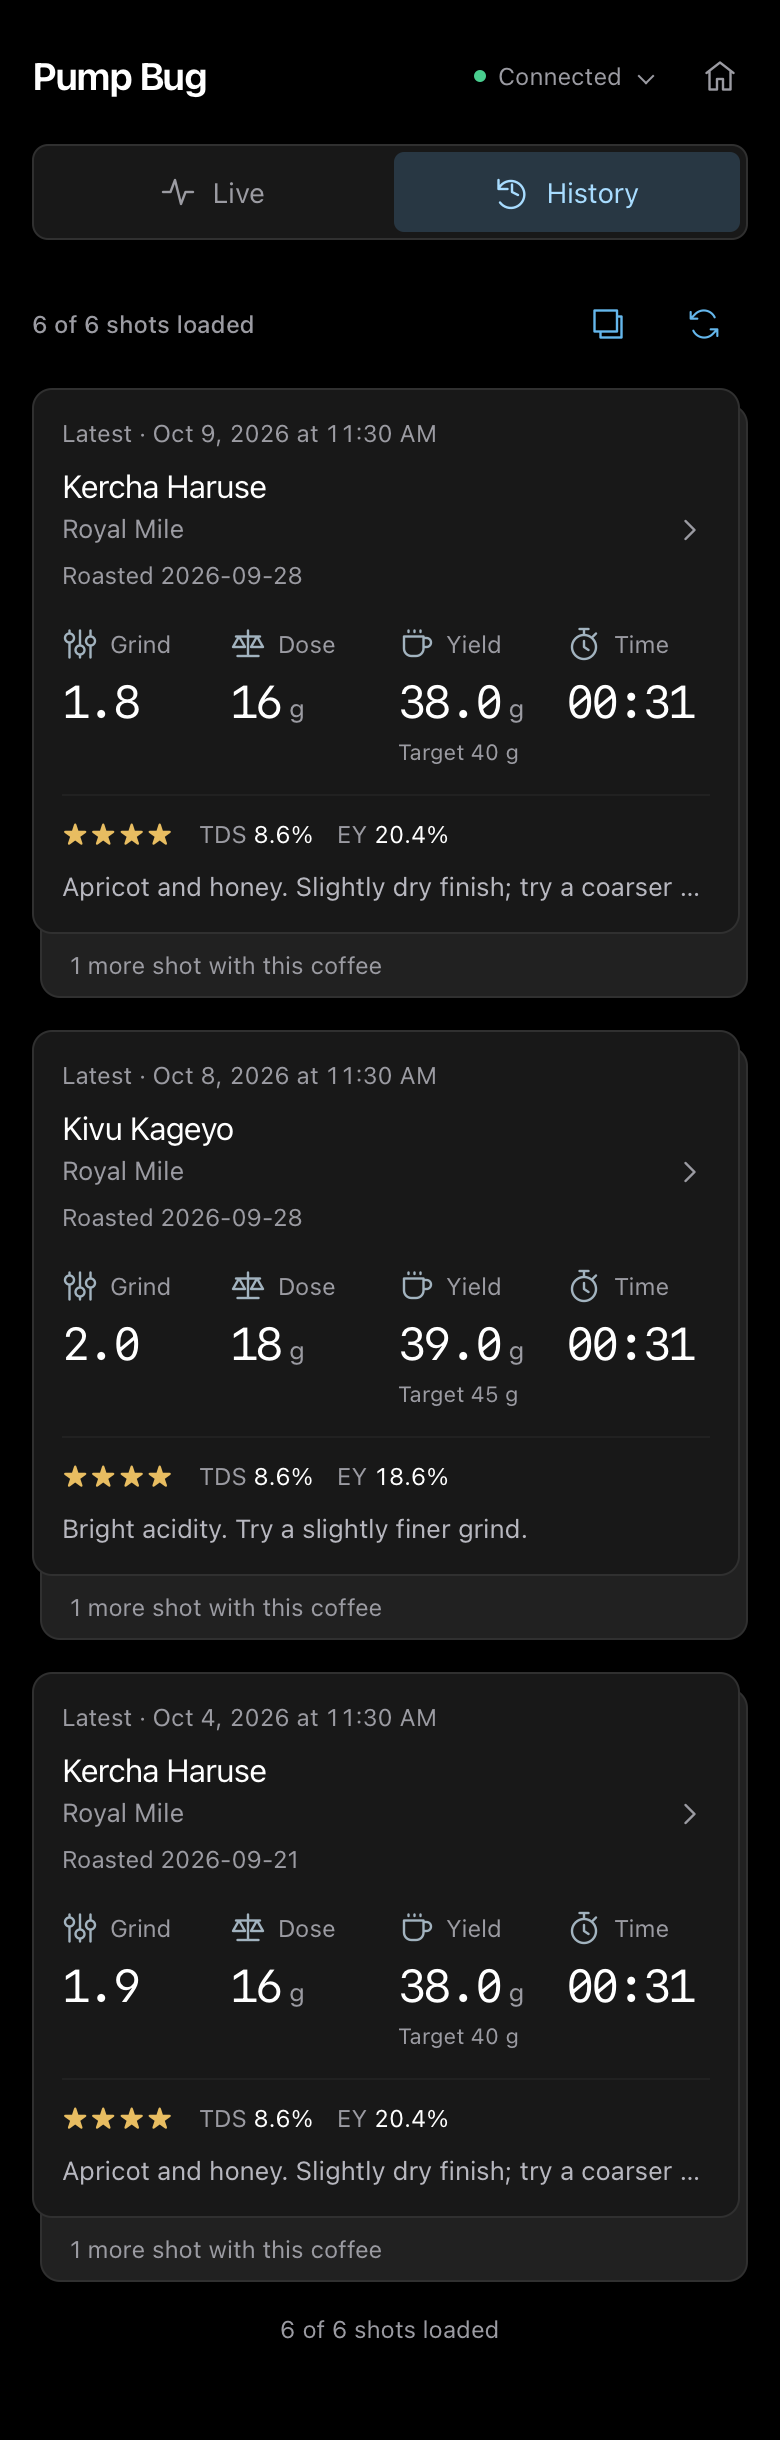
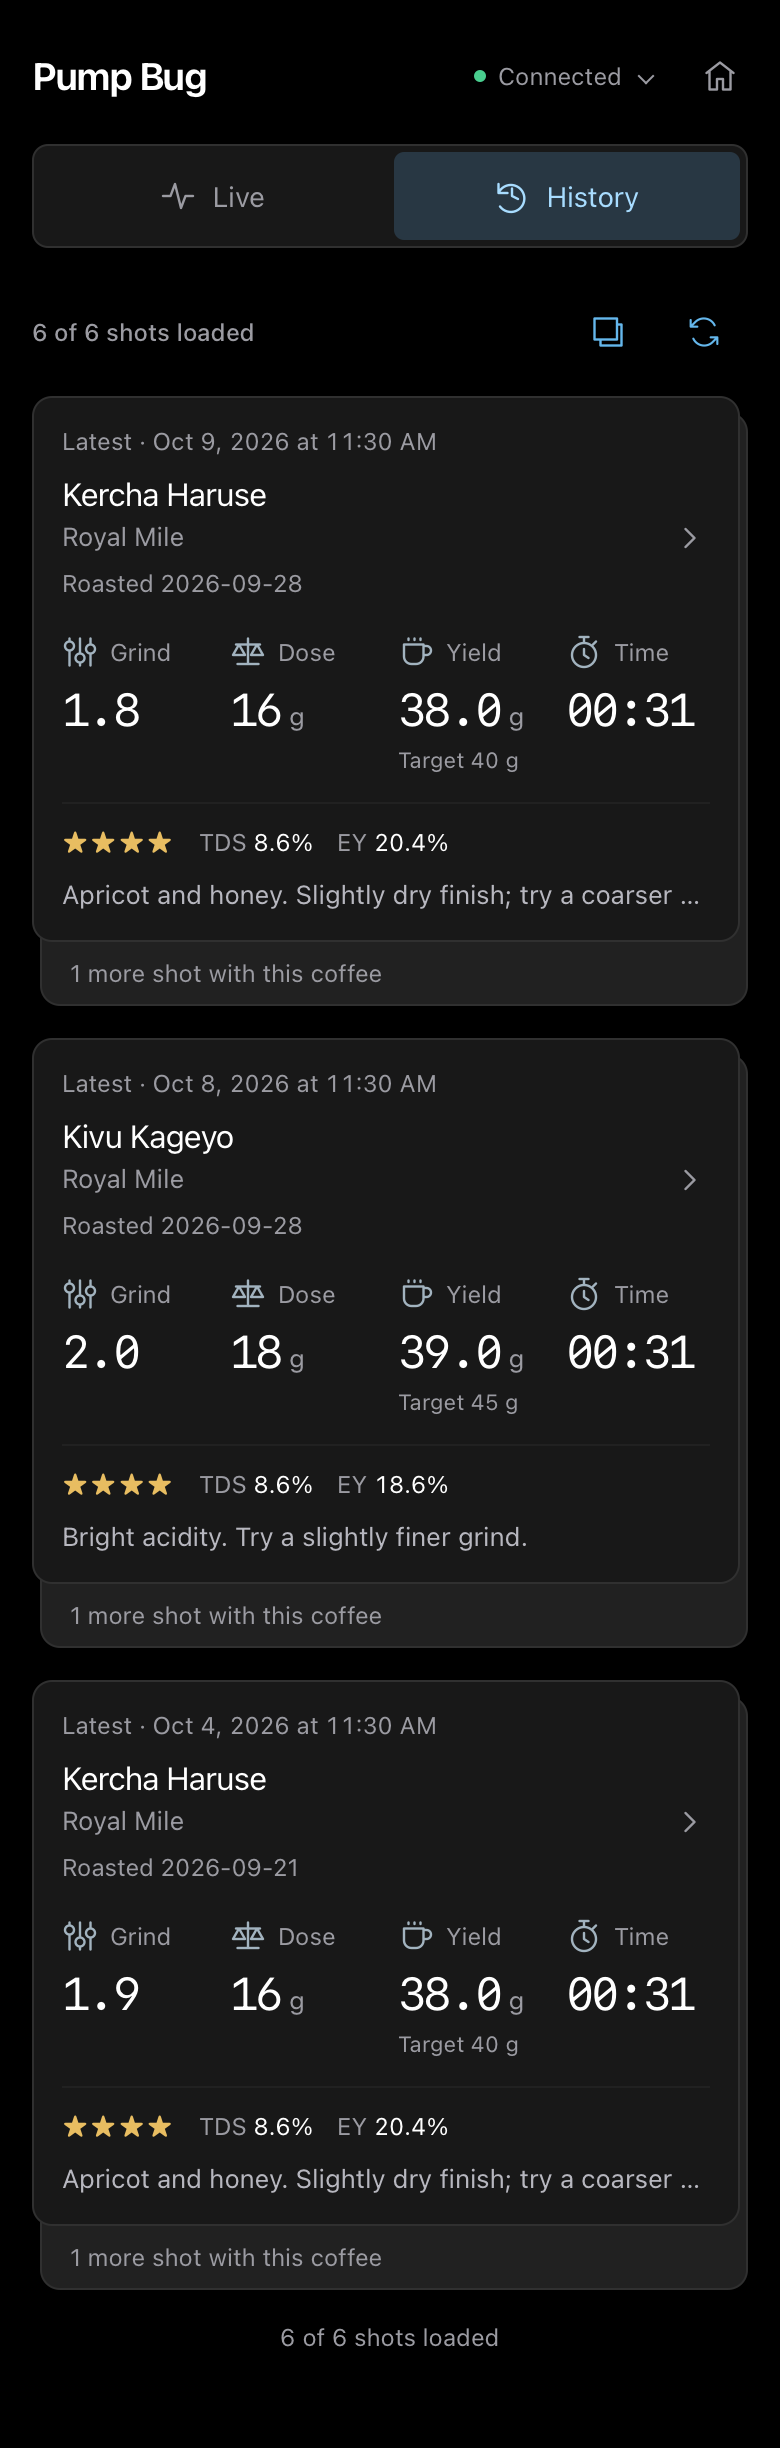
Give the redesigned web pages a consistent visual foundation
Share the Home control, panel styling, selected-tab colours and focus
rings so the dashboard, Wi-Fi page and Logs stay visually aligned.

Keep focus rings inside tightly spaced controls, match tab touch targets,
and refresh the affected guide screenshots.

diff --git a/web-src/app/extraction/styles.css b/web-src/app/extraction/styles.css
@@ -19,10 +19,6 @@ h2, .preparation-subheading {
 }
 section { margin: 0 0 24px; }
 .dim { color: var(--dim); }
-.page-head .home {
-  display: flex; align-items: center; justify-content: center;
-  width: 44px; height: 44px; flex-shrink: 0; margin: 0 -8px 0 0;
-}
 .connection-status {
   position: relative; color: var(--dim); font-size: 12px;
 }
@@ -194,12 +190,12 @@ table.samples td.k { text-align: left; color: var(--dim); }
   background: var(--surface);
 }
 .tabs button {
-  flex: 1; min-height: 40px; padding: 8px 12px; border: 0;
+  flex: 1; min-height: 44px; padding: 8px 12px; border: 0;
   display: flex; align-items: center; justify-content: center; gap: 8px;
   border-radius: 5px; background: none; color: var(--dim);
   font-family: inherit; font-size: 14px; cursor: pointer;
 }
-.tabs button.active { background: #283743; color: #a8dcff; }
+.tabs button.active { background: var(--selected-bg); color: var(--selected-fg); }
 .backlink {
   background: none; border: none; color: var(--accent);
   font-family: inherit; font-size: 0.875rem;
@@ -315,7 +311,7 @@ ul.shotlist li.recently-edited {
 .history-view-menu > summary::-webkit-details-marker { display: none; }
 .history-view-menu[open] > summary { background: var(--surface); }
 .history-view-menu > summary:focus-visible {
-  outline: 2px solid var(--accent); outline-offset: -2px;
+  outline-offset: -2px;
 }
 .history-view-options {
   position: absolute; z-index: 5; top: 46px; right: 0; width: 180px;
@@ -328,6 +324,7 @@ ul.shotlist li.recently-edited {
   background: none; color: var(--fg); font: inherit; font-size: 13px; text-align: left;
 }
 .history-view-options button[aria-pressed="true"] { color: var(--accent); }
+.history-view-options button:focus-visible { outline-offset: -2px; }
 .history-view-check { margin-left: auto; }
 .shotlist > li.history-stack {
   position: relative; padding: 0 4px 32px 0; margin-bottom: 16px;
@@ -346,7 +343,7 @@ ul.shotlist li.recently-edited {
   font: inherit; font-size: 12px; text-align: left; cursor: pointer;
 }
 .history-stack-more:focus-visible {
-  color: var(--accent); outline: 2px solid var(--accent); outline-offset: 2px;
+  color: var(--accent); outline-offset: 2px;
 }
 .history-stack-head {
   display: flex; align-items: center; justify-content: space-between;
@@ -405,7 +402,7 @@ button.shot-details-link {
 button.shot-details-link:hover { background: #ffffff0a; color: var(--accent); }
 button.shot-details-link:focus-visible, button.shot-open-link:focus-visible,
 .modal-close:focus-visible {
-  outline: 2px solid var(--accent); outline-offset: 2px;
+  outline-offset: 2px;
 }
 .shot-metrics {
   display: grid; grid-template-columns: repeat(4, minmax(0, 1fr));
@@ -554,6 +551,7 @@ button:disabled, button[aria-disabled="true"] { opacity: 0.5; cursor: default; }
   min-width: 44px; min-height: 44px; padding: 2px; cursor: pointer;
 }
 .rating button.on { color: var(--warn); }
+.rating button:focus-visible { outline-offset: -2px; }
 .rating .clear-rating { font: inherit; font-size: 0.8125rem; margin-left: auto; }
 .tag-editor {
   border: 1px solid var(--border); border-radius: 4px;
@@ -641,7 +639,7 @@ form > .editor-error:focus {
 .coffee-previous > summary { list-style: none; cursor: pointer; }
 .coffee-previous > summary::-webkit-details-marker { display: none; }
 .coffee-previous > summary:focus-visible {
-  outline: 2px solid var(--accent); outline-offset: 5px; border-radius: 3px;
+  outline-offset: 5px; border-radius: 3px;
 }
 .coffee-previous-heading {
   display: flex; align-items: center; justify-content: space-between; gap: 8px;

diff --git a/web-src/logs/styles.css b/web-src/logs/styles.css
@@ -7,20 +7,12 @@ body { max-width: 720px; }
 a { color: var(--accent); }
 .muted { color: var(--dim); font-size: 0.8125rem; line-height: 1.5; }
 .empty { padding: 16px 0; margin: 0; }
-.log-panel {
-  padding: 16px; background: var(--surface);
-  border: 1px solid var(--border); border-radius: 10px;
-}
 .sr-only {
   position: absolute; width: 1px; height: 1px; padding: 0; margin: -1px;
   overflow: hidden; clip: rect(0, 0, 0, 0); white-space: nowrap; border: 0;
 }
 
 .page-head { margin-bottom: 20px; }
-.page-head .home {
-  display: flex; align-items: center; justify-content: center;
-  width: 44px; height: 44px; flex-shrink: 0; margin: 0 -8px 0 0;
-}
 #copy-log {
   min-height: 44px; padding: 8px 12px; font: inherit; font-size: 0.8125rem;
   background: transparent; color: var(--accent);
@@ -28,9 +20,6 @@ a { color: var(--accent); }
 }
 #copy-log:hover:not(:disabled) { text-decoration: underline; }
 #copy-log:disabled { color: var(--dim); cursor: default; opacity: 0.65; }
-button:focus-visible, a:focus-visible, .table-scroll:focus-visible {
-  outline: 2px solid var(--accent); outline-offset: 3px;
-}
 
 /* Tab bar */
 .tabs {
@@ -45,7 +34,7 @@ button:focus-visible, a:focus-visible, .table-scroll:focus-visible {
   border: 0; border-radius: 6px; cursor: pointer; line-height: 1.35;
 }
 .tab:hover { color: var(--fg); }
-.tab.active { color: #a8dcff; background: #283743; }
+.tab.active { color: var(--selected-fg); background: var(--selected-bg); }
 
 /* Section bar: row count + clear */
 .bar {
@@ -61,6 +50,7 @@ button:focus-visible, a:focus-visible, .table-scroll:focus-visible {
 
 /* Log table */
 .table-scroll { overflow-x: auto; overscroll-behavior-x: contain; }
+.table-scroll:focus-visible { outline: 2px solid var(--accent); outline-offset: 3px; }
 table { width: 100%; border-collapse: collapse; font-size: 0.75rem; }
 th {
   text-align: left; font-weight: normal; color: var(--dim);

diff --git a/web-src/shared/ui.css b/web-src/shared/ui.css
@@ -1,7 +1,7 @@
 /* SPDX-FileCopyrightText: 2026 ludable */
 /* SPDX-License-Identifier: AGPL-3.0-only */
 
-/* Shared interface palette, typography, icons and page headers. Import this
+/* Shared interface palette, typography and component styles. Import this
    before page-specific rules; it includes the defaults from base.css. */
 @import "./base.css";
 
@@ -12,6 +12,8 @@
   --ui-font: -apple-system, BlinkMacSystemFont, "Segoe UI", sans-serif;
   --measurement-font: ui-monospace, "SF Mono", Menlo, Consolas, monospace;
   --primary-fill: #176b99;
+  --selected-bg: #283743;
+  --selected-fg: #a8dcff;
 }
 html, body { font-family: var(--ui-font); }
 body { padding-top: 16px; }
@@ -25,4 +27,18 @@ body { padding-top: 16px; }
 .page-head h1 {
   font-size: 19px; font-weight: 650; color: var(--fg);
   margin: 0; margin-right: auto; letter-spacing: -0.03em;
+}
+.page-head .home {
+  display: flex; align-items: center; justify-content: center;
+  width: 44px; height: 44px; flex-shrink: 0; margin: 0 -8px 0 0;
+  color: var(--dim); text-decoration: none;
+}
+.page-head .home:hover { color: var(--accent); }
+button:focus-visible, a:focus-visible, summary:focus-visible {
+  outline: 2px solid var(--accent); outline-offset: 3px;
+}
+.tabs button:focus-visible { outline-offset: -2px; }
+.panel {
+  padding: 16px; background: var(--surface);
+  border: 1px solid var(--border); border-radius: 10px;
 }

diff --git a/web-src/config/styles.css b/web-src/config/styles.css
@@ -5,10 +5,6 @@
 
 a { color: var(--accent); }
 .page-head { margin-bottom: 16px; }
-.page-head .home {
-  display: flex; align-items: center; justify-content: center;
-  width: 44px; height: 44px; flex-shrink: 0; margin: 0 -8px 0 0;
-}
 .device-name { color: var(--dim); font-size: 0.75rem; margin: -8px 0 20px; overflow-wrap: anywhere; }
 h2 {
   font-size: 0.75rem; text-transform: uppercase; letter-spacing: 0.1em;
@@ -16,10 +12,7 @@ h2 {
   display: flex; align-items: center; gap: 8px;
 }
 section { margin: 0 0 20px; }
-.panel {
-  padding: 16px; border: 1px solid var(--border); border-radius: 10px;
-  background: var(--surface); margin-bottom: 16px;
-}
+.panel { margin-bottom: 16px; }
 p { line-height: 1.5; }
 dl { margin: 12px 0 0; padding: 0; }
 .row {
@@ -50,9 +43,6 @@ button.secondary { background: var(--bg); border-color: var(--border); }
 button.danger { background: var(--bg); border-color: var(--border); color: var(--bad); }
 button:hover, .primary-action:hover { border-color: var(--accent); }
 button.danger:hover { border-color: var(--bad); }
-button:focus-visible, a:focus-visible, summary:focus-visible {
-  outline: 2px solid var(--accent); outline-offset: 3px;
-}
 .pairing-steps { margin: 16px 0; padding-left: 20px; font-size: 0.875rem; line-height: 1.5; }
 .pairing-steps li + li { margin-top: 8px; }
 .pin-label { text-align: center; margin-top: 20px; }

diff --git a/web-src/logs/index.html b/web-src/logs/index.html
@@ -23,7 +23,7 @@
       <span id="copy-status" class="sr-only" role="status" aria-live="polite"></span>
     </header>
     <nav id="tabs" class="tabs" aria-label="Diagnostic logs"></nav>
-    <main id="app" class="log-panel"><p class="muted">Loading…</p></main>
+    <main id="app" class="panel"><p class="muted">Loading…</p></main>
     <!-- api.js declares the fetch helpers; app.js declares state and kicks
          off the first poll at its bottom. -->
     <script data-inline src="./api.js"></script>

diff --git a/web-src/home/styles.css b/web-src/home/styles.css
@@ -20,7 +20,6 @@ a { color: var(--accent); }
   color: var(--fg);
 }
 .card:hover { border-color: var(--accent); }
-a:focus-visible { outline: 2px solid var(--accent); outline-offset: 4px; }
 .destination-icon { width: 24px; height: 24px; color: var(--accent); }
 .card-copy { min-width: 0; flex: 1; }
 .card-title { display: block; font-size: 1rem; font-weight: 600; }

diff --git a/web-src/shared/base.css b/web-src/shared/base.css
@@ -26,8 +26,3 @@ html, body {
 }
 body { padding: 24px 16px; max-width: 480px; margin: 0 auto; }
 h1 { font-size: 1.2rem; margin: 0 0 24px; color: var(--accent); }
-.home {
-  display: inline-block; margin: 0 0 12px;
-  font-size: 0.8125rem; color: var(--dim); text-decoration: none;
-}
-.home:hover { color: var(--accent); }
